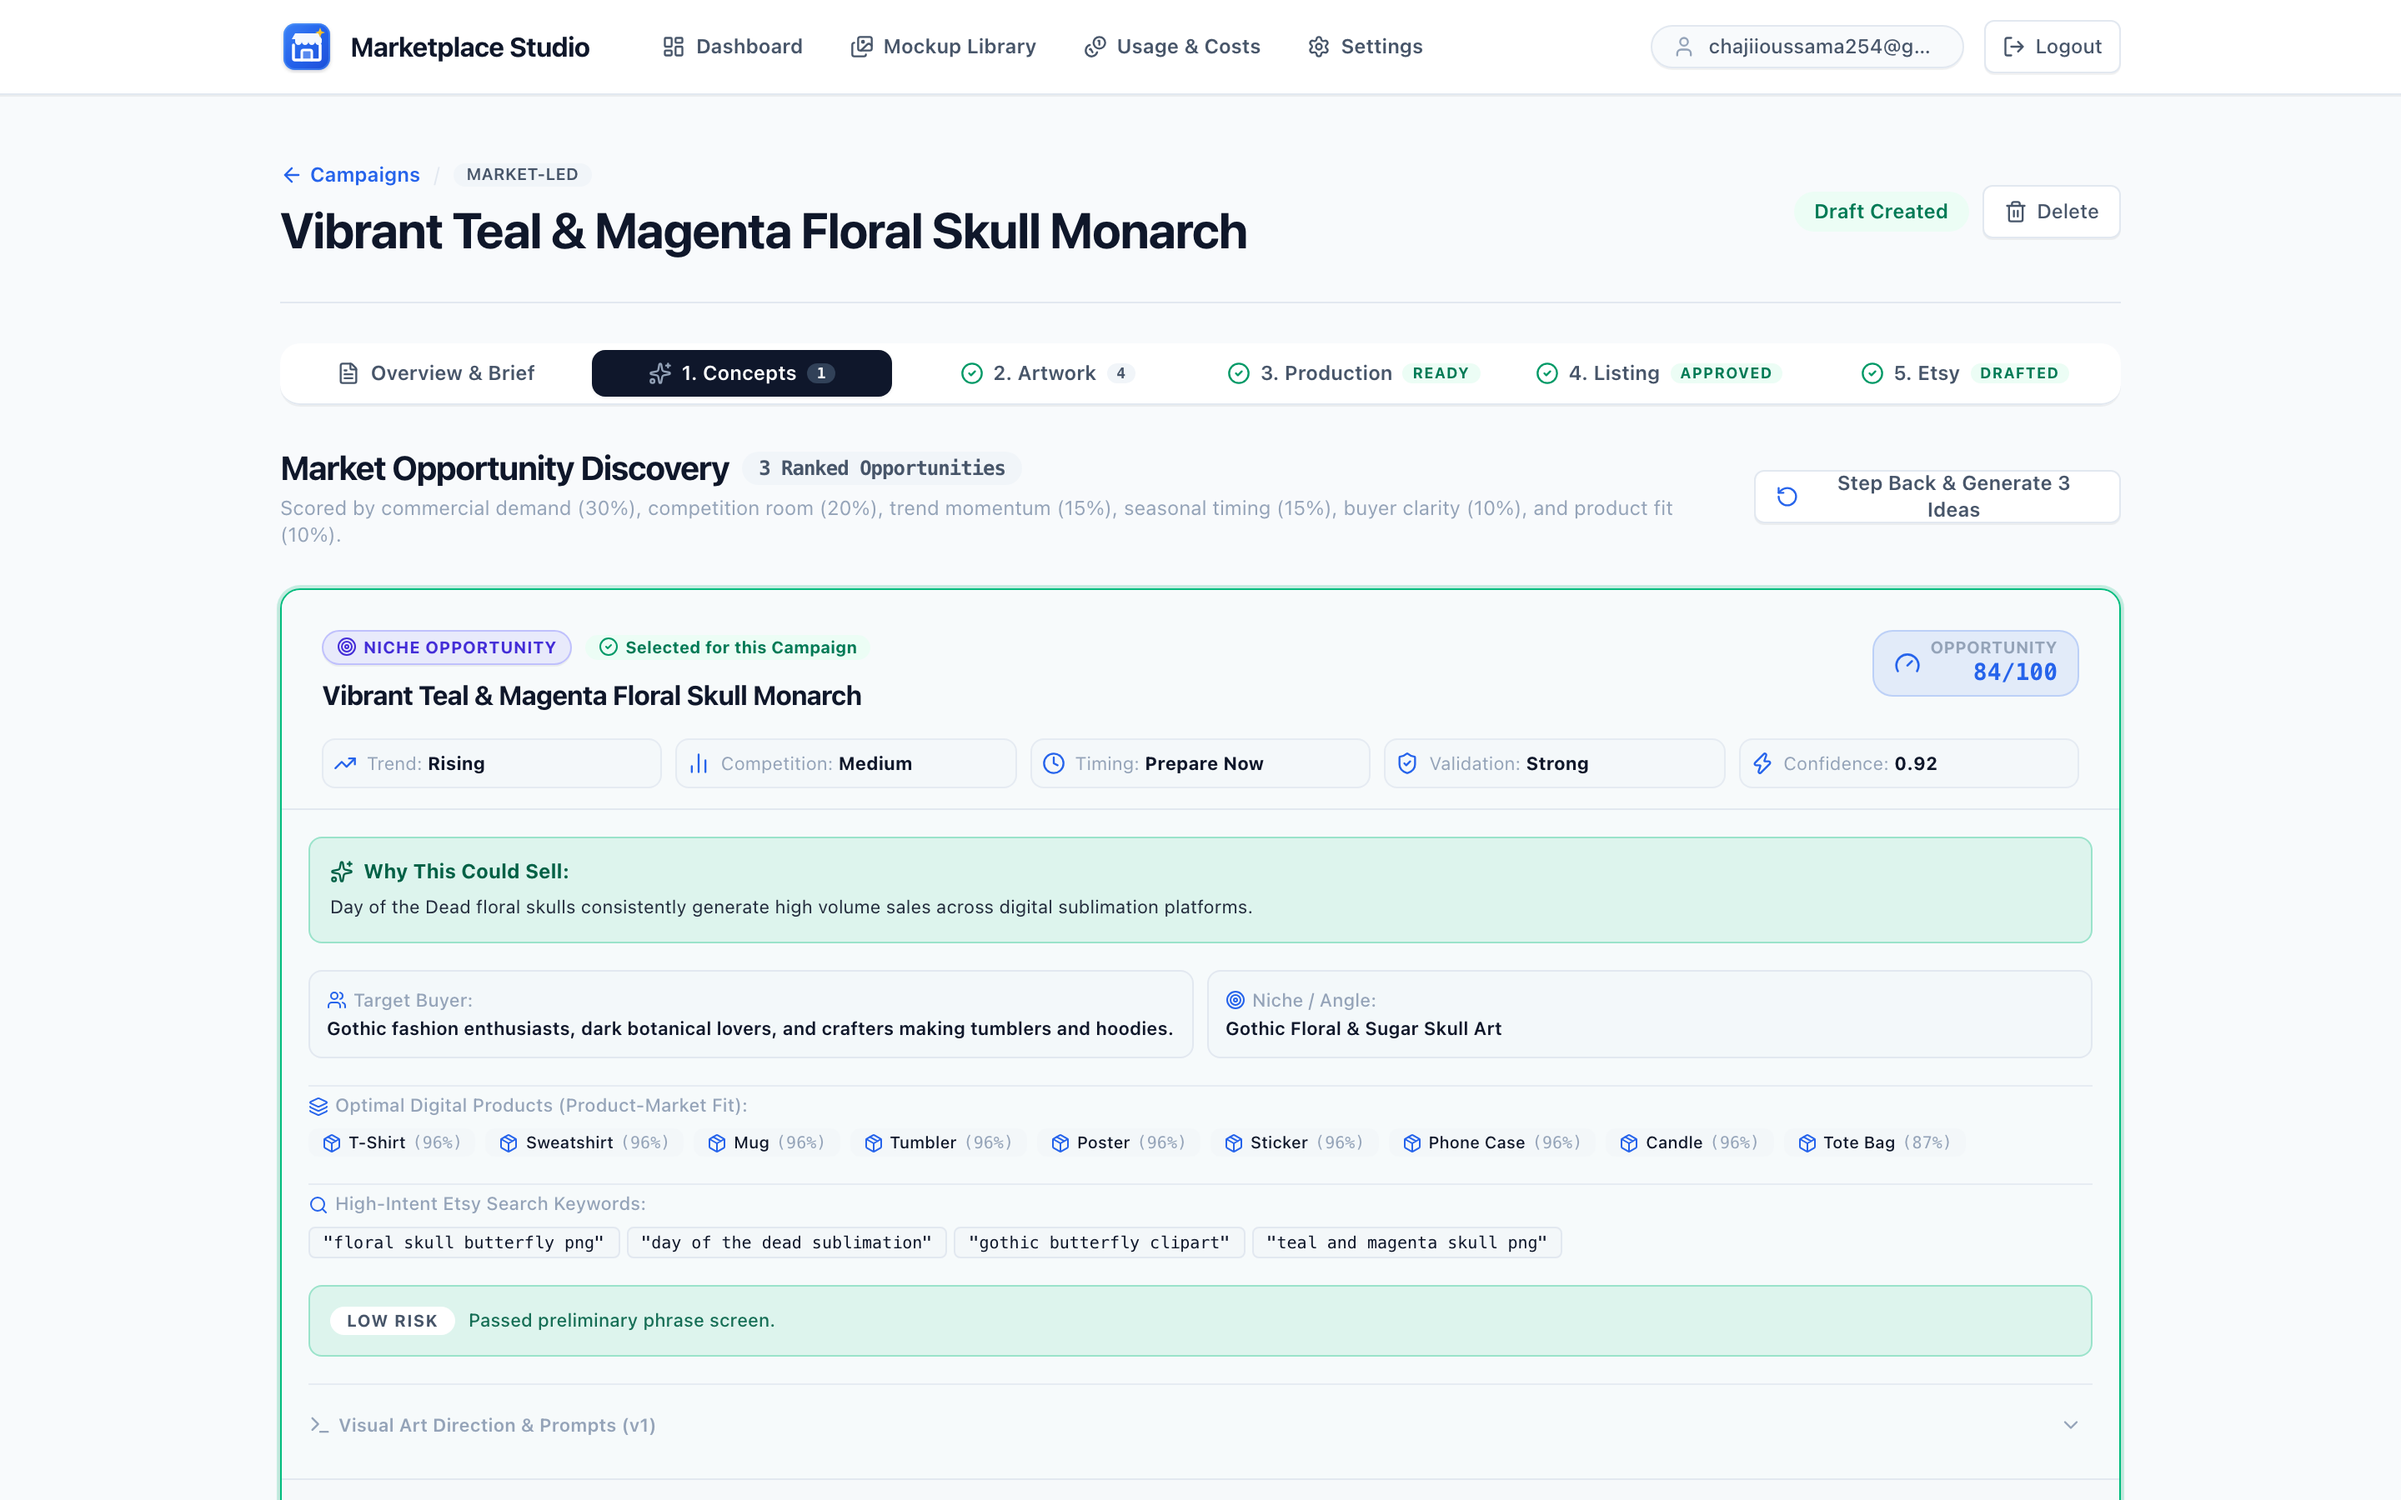
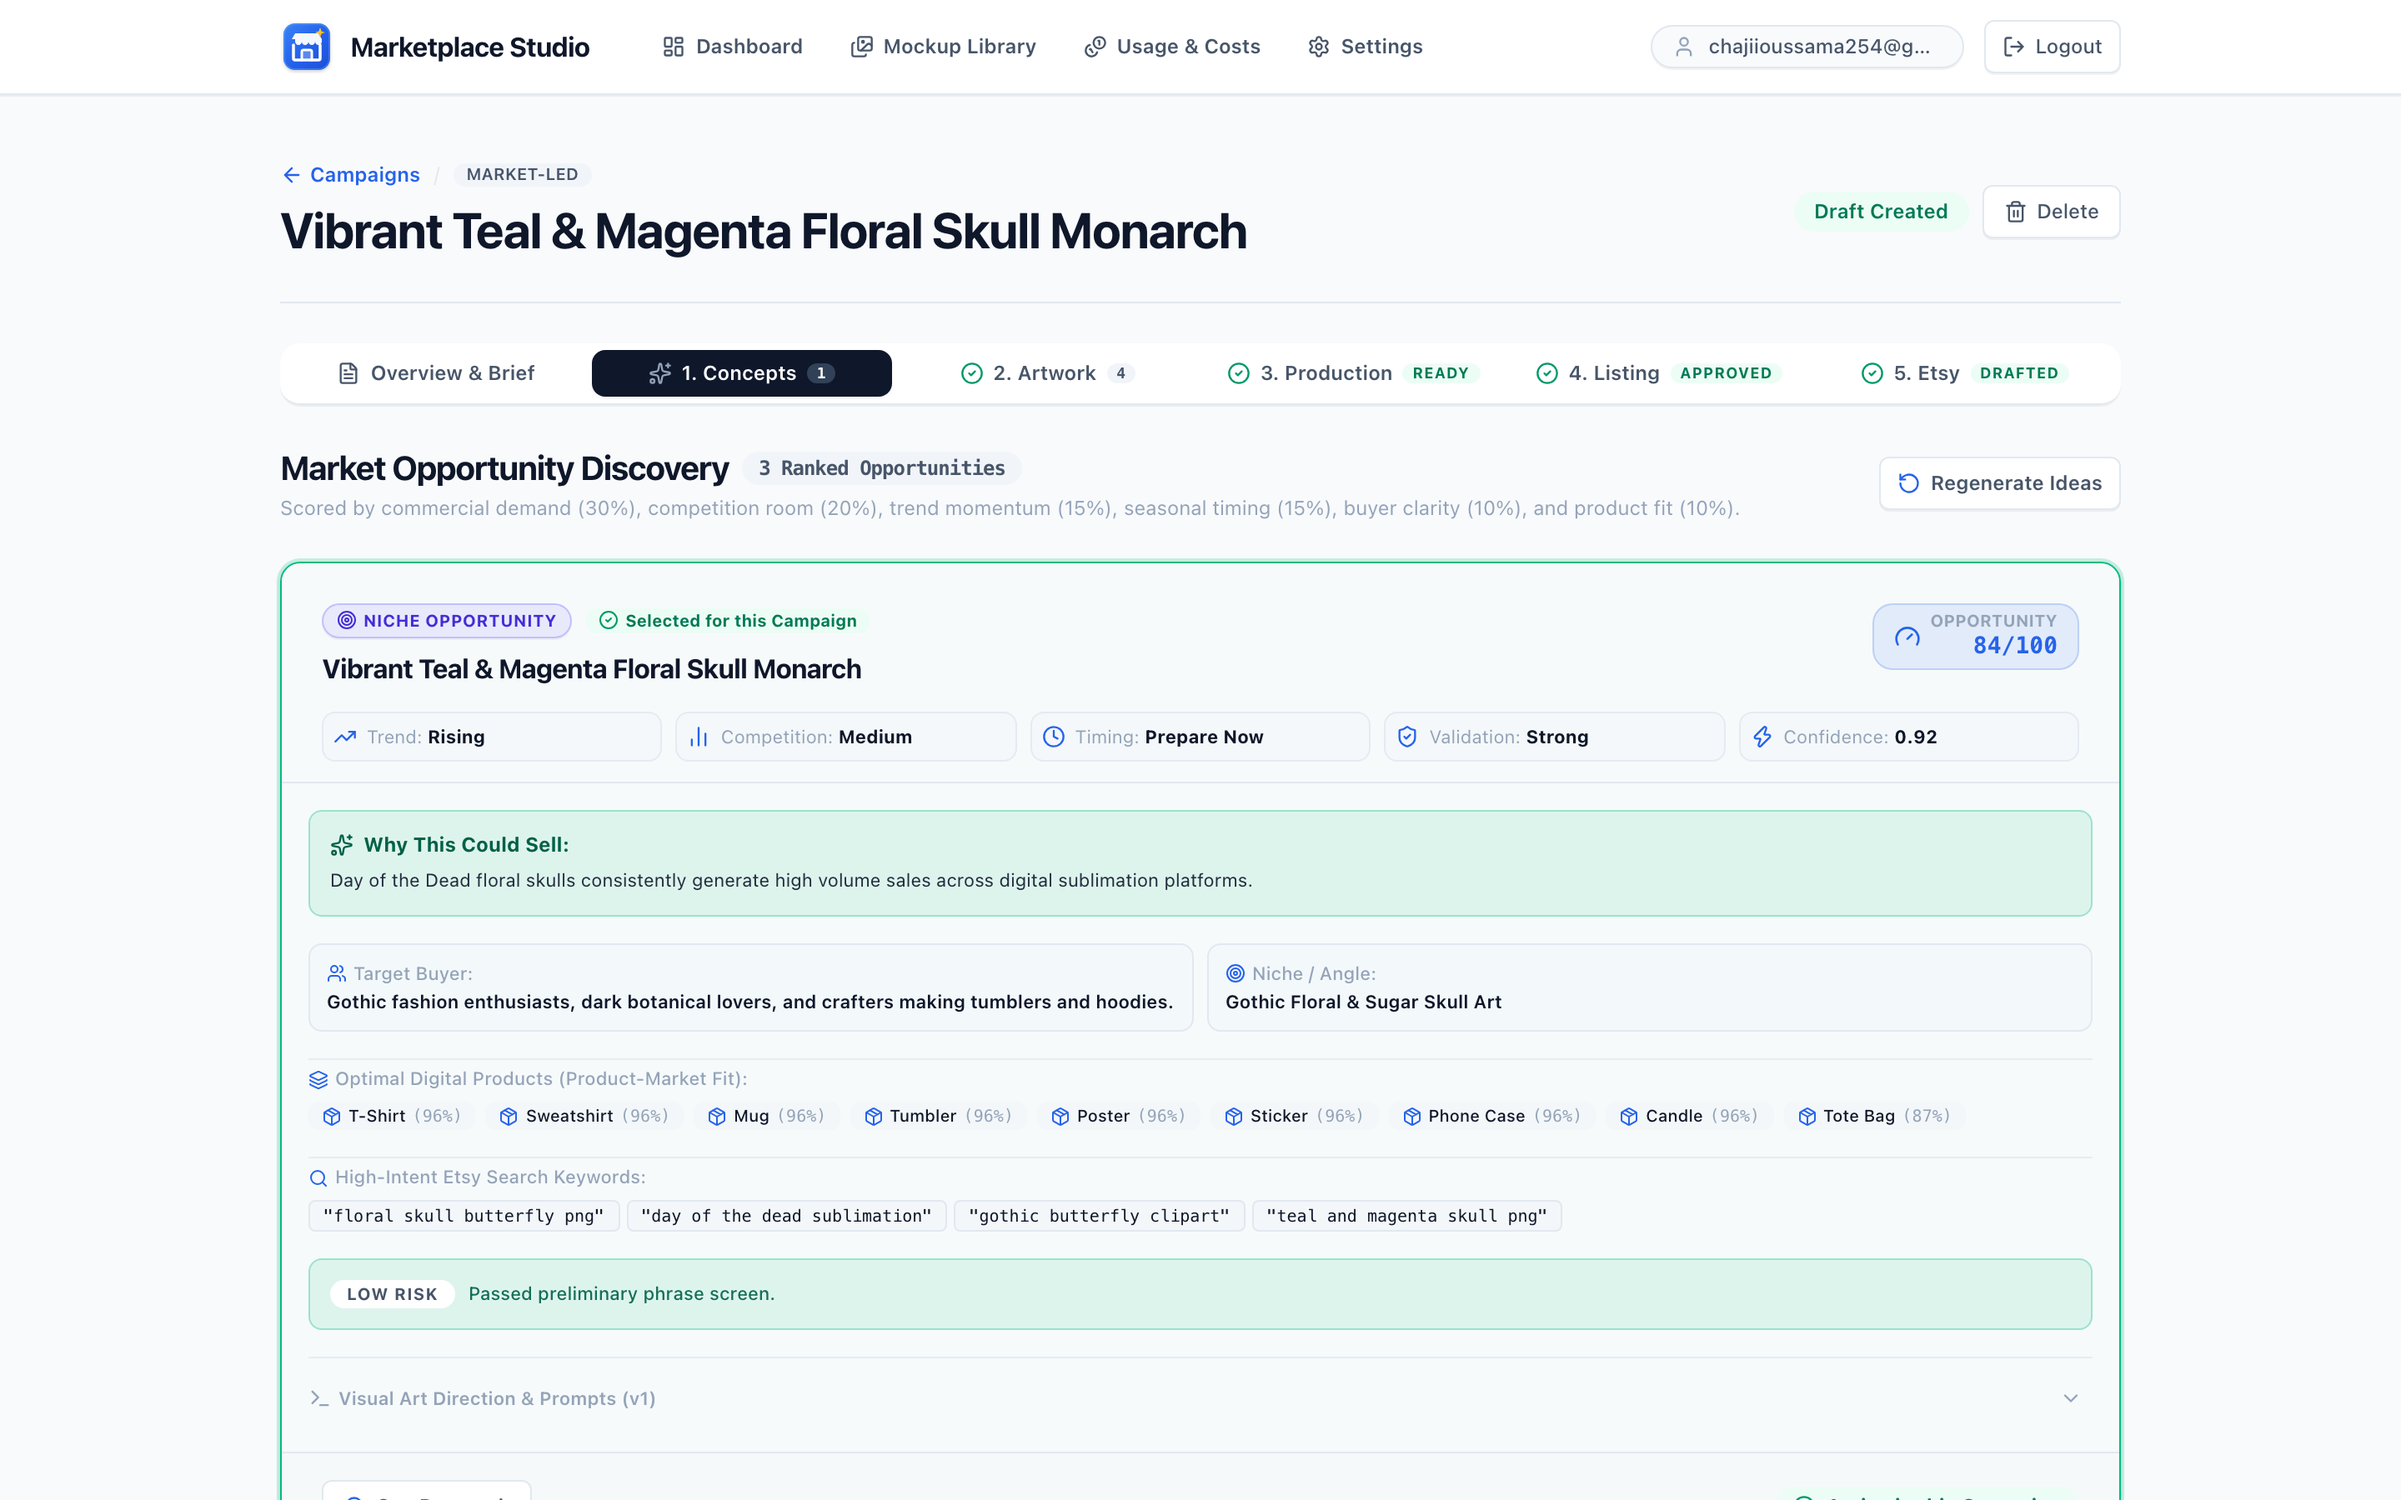
refactor(ui): streamline concept opportunity research action button
- Shortened button copy from 'Step Back & Generate 3 Ideas' to 'Regenerate Ideas' / 'Find New Ideas'
- Added explicit compact dimensions (h-8 px-2.5 shrink-0) and data-testid='regenerate-ideas-btn'
- Updated test assertions in marketOpportunityDiscovery.test.ts
- Recaptured Gate 1 showcase screenshot

diff --git a/frontend/components/workflow/WorkflowConceptsTab.vue b/frontend/components/workflow/WorkflowConceptsTab.vue
@@ -504,15 +504,16 @@ function confirmHighRiskApproval() {
 
         <Button
           v-if="workflow.state !== 'RESEARCH_QUEUED' && workflow.state !== 'RESEARCHING' && workflow.state !== 'PUBLISHED'"
+          data-testid="regenerate-ideas-btn"
           variant="outline"
           size="sm"
           :disabled="isStartingNewResearch"
-          class="font-semibold text-xs gap-1.5 cursor-pointer bg-white"
+          class="h-8 px-2.5 text-xs font-semibold shrink-0 gap-1.5 cursor-pointer bg-white shadow-2xs"
           @click="handleFindNewOpportunities"
         >
           <Icon v-if="isStartingNewResearch" name="lucide:loader-circle" class="size-3.5 animate-spin text-primary" aria-hidden="true" />
           <Icon v-else name="lucide:rotate-ccw" class="size-3.5 text-primary" aria-hidden="true" />
-          <span>{{ workflow.state !== 'IDEA_REVIEW' ? 'Step Back & Generate 3 Ideas' : 'Find 3 New Opportunities' }}</span>
+          <span>{{ workflow.state !== 'IDEA_REVIEW' ? 'Regenerate Ideas' : 'Find New Ideas' }}</span>
         </Button>
       </div>
 

diff --git a/frontend/tests/marketOpportunityDiscovery.test.ts b/frontend/tests/marketOpportunityDiscovery.test.ts
@@ -282,7 +282,7 @@ describe("WorkflowConceptsTab - Market Opportunity Discovery", () => {
     expect(wrapper.emitted("decideGate")?.[0]).toEqual(["concept-1", "APPROVED"]);
   });
 
-  it("emits startResearch when 'Find 3 New Opportunities' is clicked", async () => {
+  it("emits startResearch when 'Find New Ideas' is clicked", async () => {
     const wrapper = mount(WorkflowConceptsTab, {
       props: {
         workflow: mockWorkflow,
@@ -313,11 +313,10 @@ describe("WorkflowConceptsTab - Market Opportunity Discovery", () => {
       },
     });
 
-    const buttons = wrapper.findAll("button");
-    const findNewBtn = buttons.find((b) => b.text().includes("Find 3 New Opportunities"));
-    expect(findNewBtn).toBeDefined();
+    const findNewBtn = wrapper.find('[data-testid="regenerate-ideas-btn"]');
+    expect(findNewBtn.exists()).toBe(true);
 
-    await findNewBtn?.trigger("click");
+    await findNewBtn.trigger("click");
     expect(wrapper.emitted("startResearch")).toBeTruthy();
   });
 });
